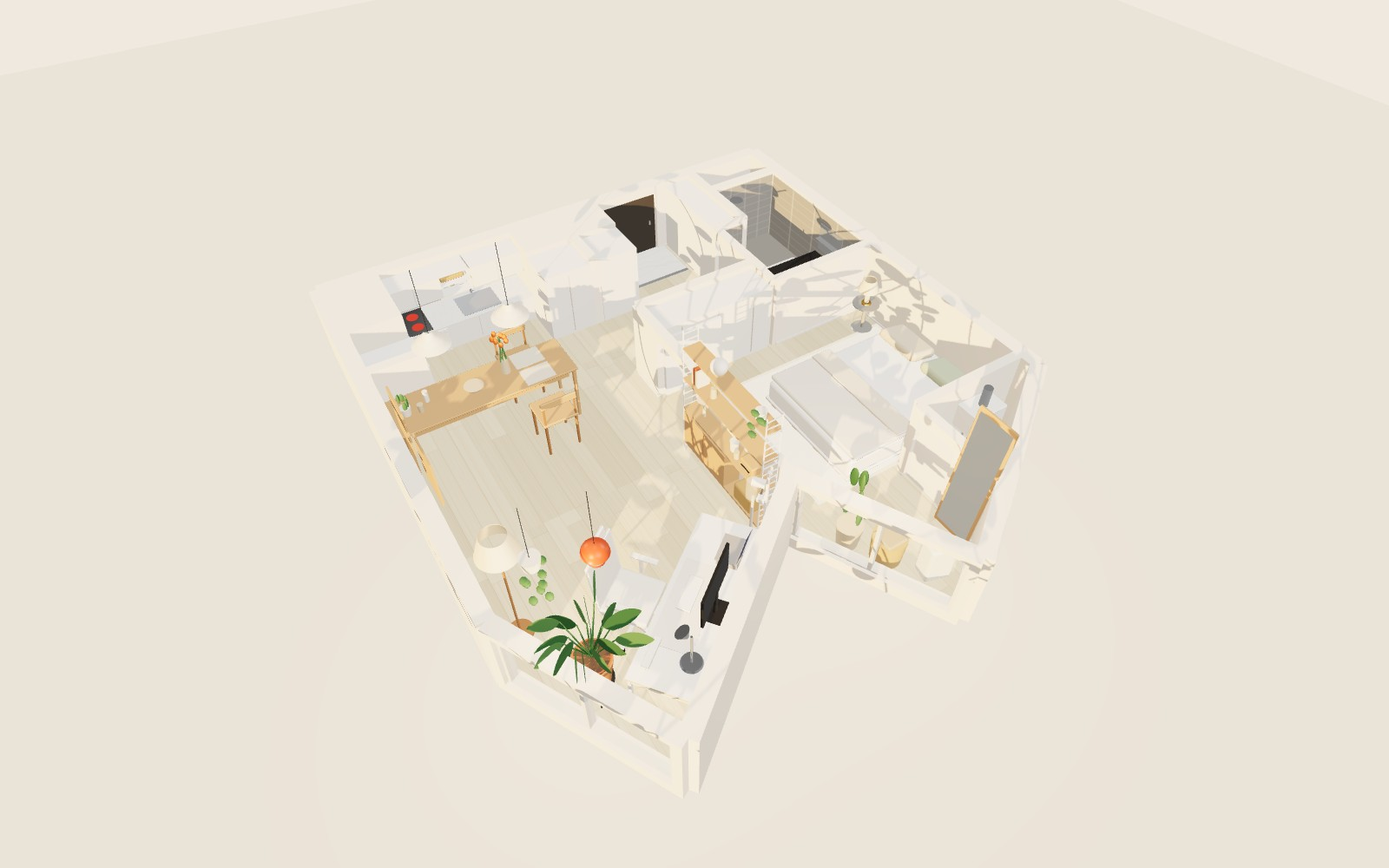
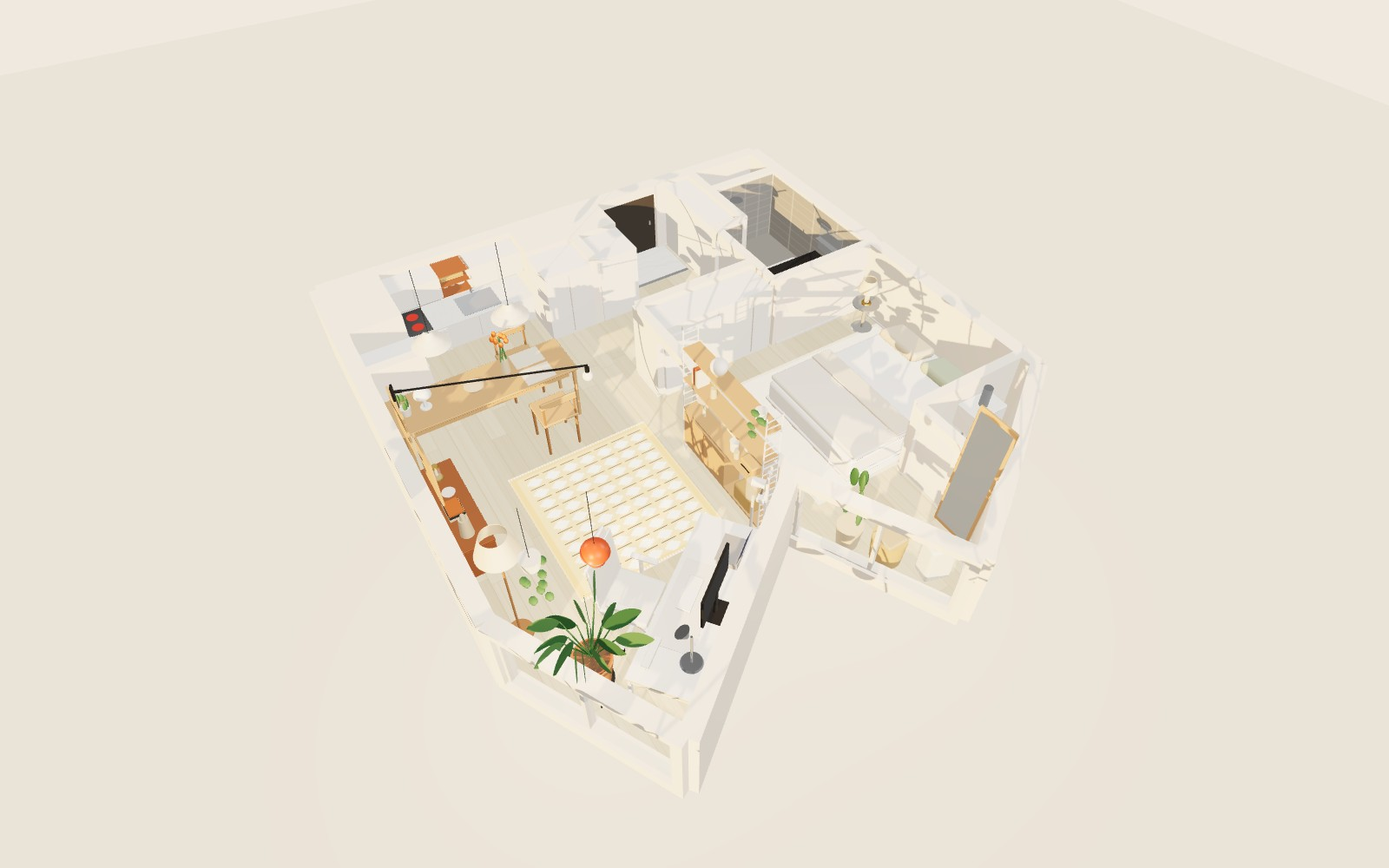
Living: teak sideboard with cane doors, swing-arm wall lamp, cordless glass lamp, mushroom lamp; rug stays when table set is hidden

diff --git a/products.html b/products.html
@@ -8,4 +8,4 @@ a.go{display:inline-block;margin-top:4px;color:#fff;background:#8a5a22;padding:3
 <header><h1>강변 스카이타워 36B · 비슷한 실제 상품 (책상 제외)</h1>
 <div><a href="./">3D로 보기</a> · <a href="gallery.html">사진으로 보기</a></div>
 <div class="note" style="margin-top:6px">각 품목: <b>가장 비슷</b>(정품·원형에 가까움) / <b>가성비</b> 대안. 링크·가격은 2026-10-26 직접 열어 확인한 기준이며 바뀔 수 있어요. 해외직배송 상품은 배송기간·관부가세를 확인하세요.</div></header>
-<main><section><h2>일본풍 방석 2개</h2><div class="sub">머스터드 방석</div><div class="it"><span class="tier best">가장 비슷</span><b>Ikeura 면 자부톤 55×59 (Yellow)</b><br>Japanese Taste (일본 직배송) · 111,000원/개 + 국제배송·관부가세<div class="note">가운데 술 매듭 있는 정통 자부톤</div><a class="go" href="https://int.japanesetaste.com/products/ikeura-cotton-zabuton-traditional-japanese-floor-cushion-55-x-59cm" target="_blank" rel="noopener">상품 보기 ↗</a></div><div class="sub">베이지 방석</div><div class="it"><span class="tier budget">가성비</span><b>데코뷰 내츄럴 베이지 린넨 빵빵이 대방석 60×60×8</b><br>29CM · 38,700원<div class="note">린넨 100%, 누름 매듭형</div><a class="go" href="https://www.29cm.co.kr/products/2535205" target="_blank" rel="noopener">상품 보기 ↗</a></div></section><section><h2>거실 러그</h2><div class="sub">러그</div><div class="it"><span class="tier best">가장 비슷</span><b>리튼 피치 그리드 러그 150×200</b><br>29CM · 339,000원 (150×200 옵션)<div class="note">크림 바탕 + 카라멜 격자, 폴리 100%</div><a class="go" href="https://www.29cm.co.kr/products/1620735" target="_blank" rel="noopener">상품 보기 ↗</a></div><div class="it"><span class="tier budget">가성비</span><b>보웰 BWTZ 워셔블 러그 체커보드(브라운) 150×200</b><br>컬리 · 96,000원<div class="note">크림+카라멜 체커보드, 세탁 가능</div><a class="go" href="https://www.kurly.com/goods/1001250208" target="_blank" rel="noopener">상품 보기 ↗</a></div></section><section><h2>좌식 타일 테이블</h2><div class="sub">좌식 테이블</div><div class="it"><span class="tier best">가장 비슷</span><b>빈티지 타일좌탁 93×52×42 (타일 포함)</b><br>11번가 (해외직배송) · 444,300원 + 배송 10,000원<div class="note">그린 타일이 사진상 진한 편 — 주문 전 타일 색 문의</div><a class="go" href="https://www.11st.co.kr/products/9003550600" target="_blank" rel="noopener">상품 보기 ↗</a></div><div class="it"><span class="tier budget">가성비</span><b>THE DIY 타일테이블 반제품 1000×500×350</b><br>THE DIY · 108,000원 (타일 별도)<div class="note">세이지 타일을 직접 골라 붙이는 DIY</div><a class="go" href="https://thediy.co.kr/goods/view?no=32298" target="_blank" rel="noopener">상품 보기 ↗</a></div></section><section><h2>스트링 선반 (깊이 20cm)</h2><div class="sub">선반</div><div class="it"><span class="tier best">가장 비슷</span><b>String® 오크 선반 78×20 3개 + 화이트 월패널 75×20 2개</b><br>루밍 (String 공식) · 426,000원 (일시품절 시 예약 3~4개월)<div class="note">월패널: rooming.co.kr/product/wall-panels-75x20-5colors/11051</div><a class="go" href="https://www.rooming.co.kr/product/shelves-oak-3pcs-4sizes/5989/category/239/display/1/" target="_blank" rel="noopener">상품 보기 ↗</a></div><div class="it"><span class="tier budget">가성비</span><b>멀티 스트링 철제 벽선반 &#x27;로그 3단 80×20&#x27;</b><br>11번가 (해외직배송) · 71,300원<div class="note">흰 사다리 + 밝은 원목 선반 (주문 전 옵션 색 확인)</div><a class="go" href="https://www.11st.co.kr/products/9505862360" target="_blank" rel="noopener">상품 보기 ↗</a></div></section><section><h2>긴 식탁 200×60</h2><div class="sub">식탁</div><div class="it"><span class="tier best">가장 비슷</span><b>해찬솔 북미산 오크 통원목 테이블 2000 (w600)</b><br>롯데ON · 1,003,200원<div class="note">통원목 오크</div><a class="go" href="https://www.lotteon.com/p/product/LO2612716380" target="_blank" rel="noopener">상품 보기 ↗</a></div><div class="it"><span class="tier budget">가성비</span><b>IKEA LAGKAPTEN 상판 200×60 + ADILS 다리 5개</b><br>이케아 · 84,900원<div class="note">다리: ikea.com/kr/ko/p/adils-leg-white-80217977 (200cm는 다리 5개)</div><a class="go" href="https://www.ikea.com/kr/ko/p/lagkapten-table-top-white-stained-oak-effect-50460834/" target="_blank" rel="noopener">상품 보기 ↗</a></div></section><section><h2>식탁 의자 2개</h2><div class="sub">의자</div><div class="it"><span class="tier best">가장 비슷</span><b>&amp;Tradition In Between Chair SK1 오크</b><br>8colors · 790,000원/개<a class="go" href="https://8colors.co.kr/product/%EC%95%A4%ED%8A%B8%EB%A0%88%EB%94%94%EC%85%98-%EC%9D%B8-%EB%B9%84%ED%8A%B8%EC%9C%88-%EC%B2%B4%EC%96%B4-in-between-chair-sk1-oak/6701/" target="_blank" rel="noopener">상품 보기 ↗</a></div><div class="it"><span class="tier budget">가성비</span><b>IKEA LISABO 리사보 의자, 물푸레나무</b><br>이케아 · 79,900원/개<a class="go" href="https://www.ikea.com/kr/ko/p/lisabo-chair-ash-80457236/" target="_blank" rel="noopener">상품 보기 ↗</a></div></section><section><h2>PH 스타일 펜던트 2개 (크림)</h2><div class="sub">펜던트</div><div class="it"><span class="tier best">가장 비슷</span><b>Louis Poulsen PH 5 Mini 모노크롬 블랙</b><br>아비타 · 1,351,000원/개<div class="note">링크는 블랙 — 3D처럼 가볍게 하려면 화이트/크림 색상 문의</div><a class="go" href="https://avita.co.kr/product/루이스폴센-ph-5-미니-펜던트-조명-모노크롬-블랙/4076/category/31/display/1/" target="_blank" rel="noopener">상품 보기 ↗</a></div><div class="it"><span class="tier budget">가성비</span><b>3단 갓 펜던트 Ø380 블랙</b><br>라이트나라 · 83,000원/개<div class="note">화이트 옵션 선택 (3D 크림 톤과 비슷)</div><a class="go" href="https://www.lightnara.com/goods/goods_view.php?goodsNo=1000001154" target="_blank" rel="noopener">상품 보기 ↗</a></div></section><section><h2>오렌지 플라워팟 펜던트</h2><div class="sub">펜던트</div><div class="it"><span class="tier best">가장 비슷</span><b>&amp;Tradition Flowerpot VP1 Zesty Orange</b><br>29CM · 387,000원<a class="go" href="https://www.29cm.co.kr/products/4282241" target="_blank" rel="noopener">상품 보기 ↗</a></div><div class="it"><span class="tier budget">가성비</span><b>&amp;Tradition Flowerpot VP10 Zesty Orange (작은 사이즈)</b><br>29CM · 259,200원<div class="note">VP1보다 7cm 작음</div><a class="go" href="https://www.29cm.co.kr/products/4096437" target="_blank" rel="noopener">상품 보기 ↗</a></div></section><section><h2>플리츠 플로어 스탠드</h2><div class="sub">스탠드</div><div class="it"><span class="tier best">가장 비슷</span><b>GUBI Timberline Floor Lamp</b><br>29CM · 1,442,100원<a class="go" href="https://www.29cm.co.kr/products/2643462" target="_blank" rel="noopener">상품 보기 ↗</a></div><div class="it"><span class="tier budget">가성비</span><b>셀리나 플리츠 우드 장스탠드 SS-6500</b><br>라이트나라 · 139,000원<div class="note">화이트 받침대만 가능</div><a class="go" href="https://www.lightnara.com/goods/goods_view.php?goodsNo=1000005455" target="_blank" rel="noopener">상품 보기 ↗</a></div></section><section><h2>구형 무드등 (선반 위)</h2><div class="sub">무드등</div><div class="it"><span class="tier best">가장 비슷</span><b>일광전구 SNOWBALL22 V2 Table (White)</b><br>29CM · 252,000원<div class="note">크롬 받침 위 타원 볼 (상위 대안)</div><a class="go" href="https://www.29cm.co.kr/products/2487432" target="_blank" rel="noopener">상품 보기 ↗</a></div><div class="it"><span class="tier budget">가성비</span><b>IKEA FADO 파도 탁상스탠드 25cm</b><br>이케아 · 24,900원<div class="note">3D에 넣은 모양과 가장 비슷</div><a class="go" href="https://www.ikea.com/kr/ko/p/fado-table-lamp-white-30283899/" target="_blank" rel="noopener">상품 보기 ↗</a></div></section><section><h2>저상 매트리스 침대 (깔판 3cm + 흰 커버)</h2><div class="sub">깔판</div><div class="it"><span class="tier best">가장 비슷</span><b>포아트 EPP 매트리스받침대 베이지 Q/K 165×200 (영상 속 제품)</b><br>포아트 공식몰 · 99,000원 (무료배송)<div class="note">높이 3cm 모듈 6장. 원목 아닌 EPP. 퀸(150)을 올리면 양옆으로 7.5cm씩 보여요</div><a class="go" href="https://foart.co.kr/product/detail.html?product_no=658" target="_blank" rel="noopener">상품 보기 ↗</a></div><div class="it"><span class="tier budget">가성비</span><b>올플로어 피너스 원목 침대 깔판 Q 150cm (내추럴)</b><br>올플로어 공식몰 · 75,100원 (무료배송)<div class="note">149.5×199.5×3cm 소나무 접이식 — 퀸에 딱 맞아 3D처럼 깔끔</div><a class="go" href="https://allfloor.co.kr/product/detail.html?product_no=29" target="_blank" rel="noopener">상품 보기 ↗</a></div><div class="sub">흰 매트리스 커버</div><div class="it"><span class="tier best">가장 비슷</span><b>바운티풀 화이트 솔리드 60수 호텔 매트리스 커버 Q</b><br>29CM · 42,900원 (5만원 미만 배송비 4,000원)<div class="note">150×200×30 밴딩형, 면 100% — 매트 높이 30cm 이하</div><a class="go" href="https://www.29cm.co.kr/products/1321945" target="_blank" rel="noopener">상품 보기 ↗</a></div><div class="it"><span class="tier budget">가성비</span><b>베베솜 6면 지퍼형 매트리스 커버 화이트 Q</b><br>오늘의집 · 44,900~45,900원 (무료배송)<div class="note">매트를 통째로 감싸 &#x27;하얀 덩어리&#x27; 느낌. 안쪽 방수층(TPU) 촉감 확인</div><a class="go" href="https://store.ohou.se/goods/1571400" target="_blank" rel="noopener">상품 보기 ↗</a></div><div class="sub">매트리스 (없을 때만)</div><div class="it"><span class="tier best">가장 비슷</span><b>시몬스 뷰티레스트 스위트 QE 퀸</b><br>시몬스 공식몰 · 1,162,800원<div class="note">150×200×24 하드형. 영상 속 시몬스 모델은 미공개라 예시</div><a class="go" href="https://www.simmons.co.kr/product-detail?productNo=127673161" target="_blank" rel="noopener">상품 보기 ↗</a></div><div class="it"><span class="tier budget">가성비</span><b>삼익가구 모노슬립 독립스프링 롤팩 매트리스 퀸</b><br>오늘의집 · 149,000원 (무료배송)<div class="note">150×200×21, 옆면 회색이라 흰 커버 필수</div><a class="go" href="https://store.ohou.se/goods/4083685" target="_blank" rel="noopener">상품 보기 ↗</a></div></section><section><h2>침실 루프 러그 200×250</h2><div class="sub">러그</div><div class="it"><span class="tier best">가장 비슷</span><b>이씨라메종 슬록 루프러그 오리지널-아이보리 200×250 맞춤 재단</b><br>이씨라메종 공식몰 · 352,000원<div class="note">영상 속 러그로 추정(제품명 미공개). 제작 2~3주, 제작 후 취소 불가</div><a class="go" href="https://icilamaison.com/product/custom-rug-order.html" target="_blank" rel="noopener">상품 보기 ↗</a></div><div class="it"><span class="tier budget">가성비</span><b>스칸디앤홈 솔리드 사이잘룩 러그 크림베이지 200×250</b><br>스칸디앤홈 공식몰 · 59,700원 (무료배송)<div class="note">물세탁 평직, 테두리 마감. 루프 직조는 아님</div><a class="go" href="https://scandinhome.co.kr/product/detail.html?product_no=5907" target="_blank" rel="noopener">상품 보기 ↗</a></div></section><section><h2>낮은 사이드테이블 · 스탠드</h2><div class="sub">사이드테이블</div><div class="it"><span class="tier best">가장 비슷</span><b>메이드인그레이 알루미늄 사이드테이블 MIG-S</b><br>29CM · 132,050원 + 배송 4,000원<div class="note">지름 35 × 높이 40 — 저상 침대 높이에 맞음</div><a class="go" href="https://www.29cm.co.kr/products/4174384" target="_blank" rel="noopener">상품 보기 ↗</a></div><div class="it"><span class="tier budget">가성비</span><b>하이오브제 스테인리스 원형 스툴 (S 높이 40cm)</b><br>오늘의집 · 26,000원 + 배송 3,000원<div class="note">지름 30 × 높이 40, 꼭 S 옵션</div><a class="go" href="https://store.ohou.se/goods/4123414" target="_blank" rel="noopener">상품 보기 ↗</a></div><div class="sub">테이블 스탠드</div><div class="it"><span class="tier best">가장 비슷</span><b>FF COLLECTIVE Antique Table Lamp Brass (베이지 갓)</b><br>에프에프컬렉티브 공식몰 · 192,000원<div class="note">브라스 + 린넨 갓, 높이 36</div><a class="go" href="https://ff-collective.com/product/antique-table-lamp-brass/950/" target="_blank" rel="noopener">상품 보기 ↗</a></div><div class="it"><span class="tier budget">가성비</span><b>빈티지 비비앙 단스탠드 베이지골드</b><br>오늘의집 · 28,500원 + 배송 3,000원<div class="note">주름 갓 + 골드 바디, 높이 35</div><a class="go" href="https://store.ohou.se/goods/406805" target="_blank" rel="noopener">상품 보기 ↗</a></div></section><section><h2>원목 전신거울</h2><div class="sub">거울</div><div class="it"><span class="tier best">가장 비슷</span><b>IKEA IKORNNES 이코르네스 전신거울 52×167, 물푸레</b><br>이케아 · 139,000원<div class="note">폭 52cm (원하던 폭보다 2cm 넓음)</div><a class="go" href="https://www.ikea.com/kr/ko/p/ikornnes-standing-mirror-ash-10298397/" target="_blank" rel="noopener">상품 보기 ↗</a></div><div class="it"><span class="tier budget">가성비</span><b>원목 회전형 전신거울 40×165 (오크)</b><br>옥션 · 120,240원<a class="go" href="http://itempage3.auction.co.kr/DetailView.aspx?itemno=E977918932" target="_blank" rel="noopener">상품 보기 ↗</a></div></section><section><h2>쉬어 리넨 커튼</h2><div class="sub">커튼</div><div class="it"><span class="tier best">가장 비슷</span><b>구다모 이태리 실키 린넨 시어 맞춤 (화이트)</b><br>구다모 · 단가 70,000원 (창 크기 입력 시 총액)<div class="note">주문제작, 봉·레일 별도</div><a class="go" href="https://gudamo.co.kr/products/copy-%EC%BB%A4%ED%8A%BC-%EA%B0%80%EB%93%B1%EB%A1%9D-4" target="_blank" rel="noopener">상품 보기 ↗</a></div><div class="it"><span class="tier budget">가성비</span><b>IKEA SILVERLÖNN 실벨뢴 속커튼 한쌍 145×250</b><br>이케아 · 29,900원/쌍<a class="go" href="https://www.ikea.com/kr/ko/p/silverloenn-sheer-curtains-1-pair-white-with-heading-tape-40491039/" target="_blank" rel="noopener">상품 보기 ↗</a></div></section><section><h2>대형 화분 · 행잉 플랜트</h2><div class="sub">대형 식물</div><div class="it"><span class="tier best">가장 비슷</span><b>호프셀렘 130~140cm (화분 포함)</b><br>심폴 · 100,000원<a class="go" href="https://www.simpol.co.kr/front/productdetail.php?productcode=003010000000068304" target="_blank" rel="noopener">상품 보기 ↗</a></div><div class="it"><span class="tier budget">가성비</span><b>호프셀렘 110~120cm</b><br>심폴 · 65,000원<div class="note">폭 30~40cm로 볼륨은 작음</div><a class="go" href="https://www.simpol.co.kr/front/productdetail.php?productcode=003011000000056613" target="_blank" rel="noopener">상품 보기 ↗</a></div><div class="sub">화분 스탠드</div><div class="it"><span class="tier best">가장 비슷</span><b>헤이핀 크라운 플랜트 스탠드 블랙 (소)</b><br>심폴 · 22,000원<div class="note">링 지름 약 26cm — 화분 크기 맞춰 구매</div><a class="go" href="https://www.simpol.co.kr/front/productdetail.php?productcode=022006000000003520" target="_blank" rel="noopener">상품 보기 ↗</a></div><div class="it"><span class="tier budget">가성비</span><b>IKEA OLIVBLAD 올리브블라드 화분스탠드 블랙 35cm</b><br>이케아 · 13,000~14,900원<div class="note">높이 35cm</div><a class="go" href="https://www.ikea.com/kr/ko/p/olivblad-plant-stand-in-outdoor-black-90486653/" target="_blank" rel="noopener">상품 보기 ↗</a></div><div class="sub">행잉 플랜트</div><div class="it"><span class="tier best">가장 비슷</span><b>스킨답서스 오레우스 행잉 1+1</b><br>심폴 · 27,900원 (2개)<a class="go" href="https://www.simpol.co.kr/front/productdetail.php?productcode=003011000000121599" target="_blank" rel="noopener">상품 보기 ↗</a></div><div class="it"><span class="tier budget">가성비</span><b>아이비 행잉 공중식물 중대품</b><br>심폴 · 15,800원<a class="go" href="https://www.simpol.co.kr/front/productdetail.php?productcode=003003000000011632" target="_blank" rel="noopener">상품 보기 ↗</a></div></section><section><h2>라탄 바스켓</h2><div class="sub">바스켓</div><div class="it"><span class="tier best">가장 비슷</span><b>파스텔 라탄 원형 빨래바구니</b><br>헵번샵 · 95,000원<a class="go" href="http://www.hepburnshop.com/shop/shopdetail.html?branduid=128752" target="_blank" rel="noopener">상품 보기 ↗</a></div><div class="it"><span class="tier budget">가성비</span><b>IKEA BRANÄS 브라네스 라탄 바구니 32×34×32</b><br>이케아 · 24,900원<div class="note">사각형</div><a class="go" href="https://www.ikea.com/kr/ko/p/branaes-basket-rattan-80173153/" target="_blank" rel="noopener">상품 보기 ↗</a></div></section><section><h2>액자 2점</h2><div class="sub">그린 포스터</div><div class="it"><span class="tier best">가장 비슷</span><b>Desenio Abstract Green Shapes No1 40×50</b><br>데세니오 · 약 32,900원 (할인가, 10/26까지)<a class="go" href="https://desenio.kr/p/posters-prints/art-prints/abstract-art/abstract-green-shapes-no1-print/" target="_blank" rel="noopener">상품 보기 ↗</a></div><div class="sub">오렌지 포스터</div><div class="it"><span class="tier best">가장 비슷</span><b>Desenio Bauhaus Circles 30×40</b><br>데세니오 · 약 24,700원 (할인가, 10/26까지)<a class="go" href="https://desenio.kr/p/posters-prints/famous-painters/bauhaus/bauhaus-circles-print/" target="_blank" rel="noopener">상품 보기 ↗</a></div><div class="sub">액자</div><div class="it"><span class="tier best">가장 비슷</span><b>Desenio 오크 원목 액자 40×50</b><br>데세니오 · 약 76,100원<a class="go" href="https://desenio.kr/p/frames/wood-frames/oak-picture-frames/40x50/" target="_blank" rel="noopener">상품 보기 ↗</a></div><div class="it"><span class="tier budget">가성비</span><b>IKEA RÖDALM 뢰달름 액자 40×50 참나무무늬</b><br>이케아 · 19,900원/개<a class="go" href="https://www.ikea.com/kr/ko/p/roedalm-frame-oak-effect-20566399/" target="_blank" rel="noopener">상품 보기 ↗</a></div></section><section><h2>무선청소기 + 슬림 스탠드</h2><div class="sub">청소기 스탠드</div><div class="it"><span class="tier best">가장 비슷</span><b>스토움 라르고 무선청소기 스탠드 거치대 (화이트)</b><br>오늘의집 (다나와 가격비교) · 25,800원<div class="note">받침 22×29, 높이 127. 청소기 정품 벽걸이 브래킷을 끼우는 방식 — 다이슨 V12는 안 맞고, 비스포크 제트는 미확인</div><a class="go" href="https://prod.danawa.com/info/?pcode=20645123" target="_blank" rel="noopener">상품 보기 ↗</a></div><div class="it"><span class="tier budget">가성비</span><b>라슈에뜨 무선청소기 철제 슬림 거치대 (화이트 S/L)</b><br>오늘의집 · 11,900~13,900원 + 배송 3,000원<div class="note">헤드를 올리고 파이프를 기대는 방식(브래킷 불필요). 파이프 굵기 4.5cm 이하만</div><a class="go" href="https://store.ohou.se/goods/2449315" target="_blank" rel="noopener">상품 보기 ↗</a></div><div class="sub">청소기 (스탠드 포함)</div><div class="it"><span class="tier budget">가성비</span><b>캐치웰 에이센스 VC234 자동충전 거치대 무선청소기</b><br>11번가 · 139,000원<div class="note">아직 청소기가 없다면: 충전 스탠드가 같이 와서 거치대가 따로 필요 없음</div><a class="go" href="https://www.11st.co.kr/products/7093303724" target="_blank" rel="noopener">상품 보기 ↗</a></div></section><section><h2>소형 제습기 (빨래 건조 겸용)</h2><div class="sub">제습기</div><div class="it"><span class="tier best">가장 비슷</span><b>신일 패브릭 제습기 SDH-S530IF (하루 12L)</b><br>11번가 · 287,000원<div class="note">30.5×23.5×49.5, 35dB, 물통 4.5L — 밤새 빨래 말려도 물통이 넉넉</div><a class="go" href="https://www.11st.co.kr/products/8359249228" target="_blank" rel="noopener">상품 보기 ↗</a></div><div class="it"><span class="tier best">가장 비슷</span><b>대성쎌틱 케어온1 DSD-6210W (하루 10L, 1등급)</b><br>11번가 · 198,370원<div class="note">29×24×51.5, 35dB, 물통 3L, 전기료 유리</div><a class="go" href="https://www.11st.co.kr/products/9292967717" target="_blank" rel="noopener">상품 보기 ↗</a></div><div class="it"><span class="tier budget">가성비</span><b>캐리어 12L 제습기 CDHC-120AUNWOXH</b><br>11번가 · 179,550원<div class="note">30.5×23.4×49.5, 의류건조 모드. 손바닥만 한 미니(펠티어) 제습기는 빨래용으로 약해요</div><a class="go" href="https://www.11st.co.kr/products/8439801880" target="_blank" rel="noopener">상품 보기 ↗</a></div></section><section><h2>접이식 빨래 건조대</h2><div class="sub">건조대</div><div class="it"><span class="tier best">가장 비슷</span><b>브라반티아 행온 빨래건조대 15m (메탈릭그레이)</b><br>11번가 (롯데백화점) · 103,470원<div class="note">펼침 108×59, 접으면 두께 5cm — 책상 밑에 세워 보관</div><a class="go" href="https://www.11st.co.kr/products/9701896136" target="_blank" rel="noopener">상품 보기 ↗</a></div><div class="it"><span class="tier budget">가성비</span><b>한샘 올데이 미니 건조대 (화이트)</b><br>11번가 · 29,900원<div class="note">펼침 136×52, 접으면 두께 7cm</div><a class="go" href="https://www.11st.co.kr/products/5580385185" target="_blank" rel="noopener">상품 보기 ↗</a></div><div class="sub">보조 건조대</div><div class="it"><span class="tier budget">가성비</span><b>IKEA JÄLL 옐 실내외건조대 (화이트)</b><br>이케아 · 10,000원<div class="note">수건·속옷용 작은 보조</div><a class="go" href="https://www.ikea.com/kr/ko/p/jaell-drying-rack-in-outdoor-white-00242891/" target="_blank" rel="noopener">상품 보기 ↗</a></div></section><section><h2>무선 서큘레이터 (빨래용)</h2><div class="sub">서큘레이터</div><div class="it"><span class="tier best">가장 비슷</span><b>루메나 무선 써큘레이터 FAN PRIME 3 (퓨어화이트)</b><br>루메나 공식몰 · 59,900원<div class="note">20×16×35, 무선 — 건조대 끝에서 제습기 쪽으로 바람</div><a class="go" href="https://www.lumena.co.kr/product/detail.html?product_no=355" target="_blank" rel="noopener">상품 보기 ↗</a></div></section></main></body></html>
+<main><section><h2>일본풍 방석 2개</h2><div class="sub">머스터드 방석</div><div class="it"><span class="tier best">가장 비슷</span><b>Ikeura 면 자부톤 55×59 (Yellow)</b><br>Japanese Taste (일본 직배송) · 111,000원/개 + 국제배송·관부가세<div class="note">가운데 술 매듭 있는 정통 자부톤</div><a class="go" href="https://int.japanesetaste.com/products/ikeura-cotton-zabuton-traditional-japanese-floor-cushion-55-x-59cm" target="_blank" rel="noopener">상품 보기 ↗</a></div><div class="sub">베이지 방석</div><div class="it"><span class="tier budget">가성비</span><b>데코뷰 내츄럴 베이지 린넨 빵빵이 대방석 60×60×8</b><br>29CM · 38,700원<div class="note">린넨 100%, 누름 매듭형</div><a class="go" href="https://www.29cm.co.kr/products/2535205" target="_blank" rel="noopener">상품 보기 ↗</a></div></section><section><h2>거실 러그</h2><div class="sub">러그</div><div class="it"><span class="tier best">가장 비슷</span><b>리튼 피치 그리드 러그 150×200</b><br>29CM · 339,000원 (150×200 옵션)<div class="note">크림 바탕 + 카라멜 격자, 폴리 100%</div><a class="go" href="https://www.29cm.co.kr/products/1620735" target="_blank" rel="noopener">상품 보기 ↗</a></div><div class="it"><span class="tier budget">가성비</span><b>보웰 BWTZ 워셔블 러그 체커보드(브라운) 150×200</b><br>컬리 · 96,000원<div class="note">크림+카라멜 체커보드, 세탁 가능</div><a class="go" href="https://www.kurly.com/goods/1001250208" target="_blank" rel="noopener">상품 보기 ↗</a></div></section><section><h2>좌식 타일 테이블</h2><div class="sub">좌식 테이블</div><div class="it"><span class="tier best">가장 비슷</span><b>빈티지 타일좌탁 93×52×42 (타일 포함)</b><br>11번가 (해외직배송) · 444,300원 + 배송 10,000원<div class="note">그린 타일이 사진상 진한 편 — 주문 전 타일 색 문의</div><a class="go" href="https://www.11st.co.kr/products/9003550600" target="_blank" rel="noopener">상품 보기 ↗</a></div><div class="it"><span class="tier budget">가성비</span><b>THE DIY 타일테이블 반제품 1000×500×350</b><br>THE DIY · 108,000원 (타일 별도)<div class="note">세이지 타일을 직접 골라 붙이는 DIY</div><a class="go" href="https://thediy.co.kr/goods/view?no=32298" target="_blank" rel="noopener">상품 보기 ↗</a></div></section><section><h2>스트링 선반 (깊이 20cm)</h2><div class="sub">선반</div><div class="it"><span class="tier best">가장 비슷</span><b>String® 오크 선반 78×20 3개 + 화이트 월패널 75×20 2개</b><br>루밍 (String 공식) · 426,000원 (일시품절 시 예약 3~4개월)<div class="note">월패널: rooming.co.kr/product/wall-panels-75x20-5colors/11051</div><a class="go" href="https://www.rooming.co.kr/product/shelves-oak-3pcs-4sizes/5989/category/239/display/1/" target="_blank" rel="noopener">상품 보기 ↗</a></div><div class="it"><span class="tier budget">가성비</span><b>멀티 스트링 철제 벽선반 &#x27;로그 3단 80×20&#x27;</b><br>11번가 (해외직배송) · 71,300원<div class="note">흰 사다리 + 밝은 원목 선반 (주문 전 옵션 색 확인)</div><a class="go" href="https://www.11st.co.kr/products/9505862360" target="_blank" rel="noopener">상품 보기 ↗</a></div></section><section><h2>낮은 티크톤 사이드보드 (라탄 문)</h2><div class="sub">사이드보드</div><div class="it"><span class="tier best">가장 비슷</span><b>어반레스트 라탄 플랩도어 1100 거실장 (네추럴)</b><br>오늘의집 · 165,000원 + 착불 배송 20,000원<div class="note">W110×D39×H58, 티크톤 몸통 + 밝은 라탄 문 — 레퍼런스와 가장 비슷 (인조라탄, 직접 조립)</div><a class="go" href="https://store.ohou.se/goods/1299455" target="_blank" rel="noopener">상품 보기 ↗</a></div><div class="it"><span class="tier best">가장 비슷</span><b>장미맨숀 리브 원목 거실장 01 1200 (내추럴)</b><br>장미맨숀 공식몰 · 268,000원 + 착불 배송 30,000원<div class="note">W120×D40×H55 고무나무 원목, 테이퍼 다리, 문도 원목(라탄 없음)</div><a class="go" href="https://rosamansion.com/product/detail.html?product_no=1288" target="_blank" rel="noopener">상품 보기 ↗</a></div></section><section><h2>롱암 스윙 벽등 (포텐스 스타일)</h2><div class="sub">벽등</div><div class="it"><span class="tier best">가장 비슷</span><b>Vitra Potence (Jean Prouvé) 딥블랙</b><br>루밍 공식몰 · 2,490,000원 (10/31까지 2,365,500원)<div class="note">팔 길이 2m, 플러그+줄 디머(배선공사 X), 벽 고정 나사 필요 — 지금 주문 시 27년 6월 입고</div><a class="go" href="https://rooming.co.kr/product/detail.html?product_no=17523" target="_blank" rel="noopener">상품 보기 ↗</a></div><div class="it"><span class="tier budget">가성비</span><b>포텐스 스타일 북유럽 벽조명 (노출 전선 110cm, 전구 포함)</b><br>11번가 (구매대행) · 150,530원<div class="note">3D는 160cm로 표현. KC·플러그 규격 미표기라 구매 전 판매자 문의</div><a class="go" href="https://www.11st.co.kr/products/9160256398" target="_blank" rel="noopener">상품 보기 ↗</a></div></section><section><h2>무선 유리 램프 (충전식)</h2><div class="sub">무선 램프</div><div class="it"><span class="tier best">가장 비슷</span><b>Ambientec BOTTLED Matte Silver</b><br>29CM · 790,000원<div class="note">유리+알루미늄 W10×H25, 최대 약 100시간</div><a class="go" href="https://www.29cm.co.kr/products/2346464" target="_blank" rel="noopener">상품 보기 ↗</a></div><div class="it"><span class="tier budget">가성비</span><b>Barebones 레일로드 랜턴 (빈티지 화이트)</b><br>무신사 · 105,000원<div class="note">유리 글로브 3000K, USB-C 충전 — 살짝 캠핑풍</div><a class="go" href="https://www.musinsa.com/products/3237801" target="_blank" rel="noopener">상품 보기 ↗</a></div></section><section><h2>긴 식탁 200×60</h2><div class="sub">식탁</div><div class="it"><span class="tier best">가장 비슷</span><b>해찬솔 북미산 오크 통원목 테이블 2000 (w600)</b><br>롯데ON · 1,003,200원<div class="note">통원목 오크</div><a class="go" href="https://www.lotteon.com/p/product/LO2612716380" target="_blank" rel="noopener">상품 보기 ↗</a></div><div class="it"><span class="tier budget">가성비</span><b>IKEA LAGKAPTEN 상판 200×60 + ADILS 다리 5개</b><br>이케아 · 84,900원<div class="note">다리: ikea.com/kr/ko/p/adils-leg-white-80217977 (200cm는 다리 5개)</div><a class="go" href="https://www.ikea.com/kr/ko/p/lagkapten-table-top-white-stained-oak-effect-50460834/" target="_blank" rel="noopener">상품 보기 ↗</a></div></section><section><h2>식탁 의자 2개</h2><div class="sub">의자</div><div class="it"><span class="tier best">가장 비슷</span><b>&amp;Tradition In Between Chair SK1 오크</b><br>8colors · 790,000원/개<a class="go" href="https://8colors.co.kr/product/%EC%95%A4%ED%8A%B8%EB%A0%88%EB%94%94%EC%85%98-%EC%9D%B8-%EB%B9%84%ED%8A%B8%EC%9C%88-%EC%B2%B4%EC%96%B4-in-between-chair-sk1-oak/6701/" target="_blank" rel="noopener">상품 보기 ↗</a></div><div class="it"><span class="tier budget">가성비</span><b>IKEA LISABO 리사보 의자, 물푸레나무</b><br>이케아 · 79,900원/개<a class="go" href="https://www.ikea.com/kr/ko/p/lisabo-chair-ash-80457236/" target="_blank" rel="noopener">상품 보기 ↗</a></div></section><section><h2>PH 스타일 펜던트 2개 (크림)</h2><div class="sub">펜던트</div><div class="it"><span class="tier best">가장 비슷</span><b>Louis Poulsen PH 5 Mini 모노크롬 블랙</b><br>아비타 · 1,351,000원/개<div class="note">링크는 블랙 — 3D처럼 가볍게 하려면 화이트/크림 색상 문의</div><a class="go" href="https://avita.co.kr/product/루이스폴센-ph-5-미니-펜던트-조명-모노크롬-블랙/4076/category/31/display/1/" target="_blank" rel="noopener">상품 보기 ↗</a></div><div class="it"><span class="tier budget">가성비</span><b>3단 갓 펜던트 Ø380 블랙</b><br>라이트나라 · 83,000원/개<div class="note">화이트 옵션 선택 (3D 크림 톤과 비슷)</div><a class="go" href="https://www.lightnara.com/goods/goods_view.php?goodsNo=1000001154" target="_blank" rel="noopener">상품 보기 ↗</a></div></section><section><h2>화이트 버섯 무드등 (식탁)</h2><div class="sub">무드등</div><div class="it"><span class="tier best">가장 비슷</span><b>Louis Poulsen Panthella 160 Portable V3 오팔 화이트</b><br>29CM · 370,000원 (무료배송)<div class="note">Ø16×H24, USB-C 충전</div><a class="go" href="https://www.29cm.co.kr/products/4103068" target="_blank" rel="noopener">상품 보기 ↗</a></div><div class="it"><span class="tier budget">가성비</span><b>필립스 Mysena 머쉬룸 충전식 테이블램프 (화이트)</b><br>29CM · 42,000원<div class="note">15×20.5, 갓이 조금 납작함</div><a class="go" href="https://www.29cm.co.kr/products/4068734" target="_blank" rel="noopener">상품 보기 ↗</a></div></section><section><h2>오렌지 플라워팟 펜던트</h2><div class="sub">펜던트</div><div class="it"><span class="tier best">가장 비슷</span><b>&amp;Tradition Flowerpot VP1 Zesty Orange</b><br>29CM · 387,000원<a class="go" href="https://www.29cm.co.kr/products/4282241" target="_blank" rel="noopener">상품 보기 ↗</a></div><div class="it"><span class="tier budget">가성비</span><b>&amp;Tradition Flowerpot VP10 Zesty Orange (작은 사이즈)</b><br>29CM · 259,200원<div class="note">VP1보다 7cm 작음</div><a class="go" href="https://www.29cm.co.kr/products/4096437" target="_blank" rel="noopener">상품 보기 ↗</a></div></section><section><h2>플리츠 플로어 스탠드</h2><div class="sub">스탠드</div><div class="it"><span class="tier best">가장 비슷</span><b>GUBI Timberline Floor Lamp</b><br>29CM · 1,442,100원<a class="go" href="https://www.29cm.co.kr/products/2643462" target="_blank" rel="noopener">상품 보기 ↗</a></div><div class="it"><span class="tier budget">가성비</span><b>셀리나 플리츠 우드 장스탠드 SS-6500</b><br>라이트나라 · 139,000원<div class="note">화이트 받침대만 가능</div><a class="go" href="https://www.lightnara.com/goods/goods_view.php?goodsNo=1000005455" target="_blank" rel="noopener">상품 보기 ↗</a></div></section><section><h2>구형 무드등 (선반 위)</h2><div class="sub">무드등</div><div class="it"><span class="tier best">가장 비슷</span><b>일광전구 SNOWBALL22 V2 Table (White)</b><br>29CM · 252,000원<div class="note">크롬 받침 위 타원 볼 (상위 대안)</div><a class="go" href="https://www.29cm.co.kr/products/2487432" target="_blank" rel="noopener">상품 보기 ↗</a></div><div class="it"><span class="tier budget">가성비</span><b>IKEA FADO 파도 탁상스탠드 25cm</b><br>이케아 · 24,900원<div class="note">3D에 넣은 모양과 가장 비슷</div><a class="go" href="https://www.ikea.com/kr/ko/p/fado-table-lamp-white-30283899/" target="_blank" rel="noopener">상품 보기 ↗</a></div></section><section><h2>저상 매트리스 침대 (깔판 3cm + 흰 커버)</h2><div class="sub">깔판</div><div class="it"><span class="tier best">가장 비슷</span><b>포아트 EPP 매트리스받침대 베이지 Q/K 165×200 (영상 속 제품)</b><br>포아트 공식몰 · 99,000원 (무료배송)<div class="note">높이 3cm 모듈 6장. 원목 아닌 EPP. 퀸(150)을 올리면 양옆으로 7.5cm씩 보여요</div><a class="go" href="https://foart.co.kr/product/detail.html?product_no=658" target="_blank" rel="noopener">상품 보기 ↗</a></div><div class="it"><span class="tier budget">가성비</span><b>올플로어 피너스 원목 침대 깔판 Q 150cm (내추럴)</b><br>올플로어 공식몰 · 75,100원 (무료배송)<div class="note">149.5×199.5×3cm 소나무 접이식 — 퀸에 딱 맞아 3D처럼 깔끔</div><a class="go" href="https://allfloor.co.kr/product/detail.html?product_no=29" target="_blank" rel="noopener">상품 보기 ↗</a></div><div class="sub">흰 매트리스 커버</div><div class="it"><span class="tier best">가장 비슷</span><b>바운티풀 화이트 솔리드 60수 호텔 매트리스 커버 Q</b><br>29CM · 42,900원 (5만원 미만 배송비 4,000원)<div class="note">150×200×30 밴딩형, 면 100% — 매트 높이 30cm 이하</div><a class="go" href="https://www.29cm.co.kr/products/1321945" target="_blank" rel="noopener">상품 보기 ↗</a></div><div class="it"><span class="tier budget">가성비</span><b>베베솜 6면 지퍼형 매트리스 커버 화이트 Q</b><br>오늘의집 · 44,900~45,900원 (무료배송)<div class="note">매트를 통째로 감싸 &#x27;하얀 덩어리&#x27; 느낌. 안쪽 방수층(TPU) 촉감 확인</div><a class="go" href="https://store.ohou.se/goods/1571400" target="_blank" rel="noopener">상품 보기 ↗</a></div><div class="sub">매트리스 (없을 때만)</div><div class="it"><span class="tier best">가장 비슷</span><b>시몬스 뷰티레스트 스위트 QE 퀸</b><br>시몬스 공식몰 · 1,162,800원<div class="note">150×200×24 하드형. 영상 속 시몬스 모델은 미공개라 예시</div><a class="go" href="https://www.simmons.co.kr/product-detail?productNo=127673161" target="_blank" rel="noopener">상품 보기 ↗</a></div><div class="it"><span class="tier budget">가성비</span><b>삼익가구 모노슬립 독립스프링 롤팩 매트리스 퀸</b><br>오늘의집 · 149,000원 (무료배송)<div class="note">150×200×21, 옆면 회색이라 흰 커버 필수</div><a class="go" href="https://store.ohou.se/goods/4083685" target="_blank" rel="noopener">상품 보기 ↗</a></div></section><section><h2>침실 루프 러그 200×250</h2><div class="sub">러그</div><div class="it"><span class="tier best">가장 비슷</span><b>이씨라메종 슬록 루프러그 오리지널-아이보리 200×250 맞춤 재단</b><br>이씨라메종 공식몰 · 352,000원<div class="note">영상 속 러그로 추정(제품명 미공개). 제작 2~3주, 제작 후 취소 불가</div><a class="go" href="https://icilamaison.com/product/custom-rug-order.html" target="_blank" rel="noopener">상품 보기 ↗</a></div><div class="it"><span class="tier budget">가성비</span><b>스칸디앤홈 솔리드 사이잘룩 러그 크림베이지 200×250</b><br>스칸디앤홈 공식몰 · 59,700원 (무료배송)<div class="note">물세탁 평직, 테두리 마감. 루프 직조는 아님</div><a class="go" href="https://scandinhome.co.kr/product/detail.html?product_no=5907" target="_blank" rel="noopener">상품 보기 ↗</a></div></section><section><h2>낮은 사이드테이블 · 스탠드</h2><div class="sub">사이드테이블</div><div class="it"><span class="tier best">가장 비슷</span><b>메이드인그레이 알루미늄 사이드테이블 MIG-S</b><br>29CM · 132,050원 + 배송 4,000원<div class="note">지름 35 × 높이 40 — 저상 침대 높이에 맞음</div><a class="go" href="https://www.29cm.co.kr/products/4174384" target="_blank" rel="noopener">상품 보기 ↗</a></div><div class="it"><span class="tier budget">가성비</span><b>하이오브제 스테인리스 원형 스툴 (S 높이 40cm)</b><br>오늘의집 · 26,000원 + 배송 3,000원<div class="note">지름 30 × 높이 40, 꼭 S 옵션</div><a class="go" href="https://store.ohou.se/goods/4123414" target="_blank" rel="noopener">상품 보기 ↗</a></div><div class="sub">테이블 스탠드</div><div class="it"><span class="tier best">가장 비슷</span><b>FF COLLECTIVE Antique Table Lamp Brass (베이지 갓)</b><br>에프에프컬렉티브 공식몰 · 192,000원<div class="note">브라스 + 린넨 갓, 높이 36</div><a class="go" href="https://ff-collective.com/product/antique-table-lamp-brass/950/" target="_blank" rel="noopener">상품 보기 ↗</a></div><div class="it"><span class="tier budget">가성비</span><b>빈티지 비비앙 단스탠드 베이지골드</b><br>오늘의집 · 28,500원 + 배송 3,000원<div class="note">주름 갓 + 골드 바디, 높이 35</div><a class="go" href="https://store.ohou.se/goods/406805" target="_blank" rel="noopener">상품 보기 ↗</a></div></section><section><h2>원목 전신거울</h2><div class="sub">거울</div><div class="it"><span class="tier best">가장 비슷</span><b>IKEA IKORNNES 이코르네스 전신거울 52×167, 물푸레</b><br>이케아 · 139,000원<div class="note">폭 52cm (원하던 폭보다 2cm 넓음)</div><a class="go" href="https://www.ikea.com/kr/ko/p/ikornnes-standing-mirror-ash-10298397/" target="_blank" rel="noopener">상품 보기 ↗</a></div><div class="it"><span class="tier budget">가성비</span><b>원목 회전형 전신거울 40×165 (오크)</b><br>옥션 · 120,240원<a class="go" href="http://itempage3.auction.co.kr/DetailView.aspx?itemno=E977918932" target="_blank" rel="noopener">상품 보기 ↗</a></div></section><section><h2>쉬어 리넨 커튼</h2><div class="sub">커튼</div><div class="it"><span class="tier best">가장 비슷</span><b>구다모 이태리 실키 린넨 시어 맞춤 (화이트)</b><br>구다모 · 단가 70,000원 (창 크기 입력 시 총액)<div class="note">주문제작, 봉·레일 별도</div><a class="go" href="https://gudamo.co.kr/products/copy-%EC%BB%A4%ED%8A%BC-%EA%B0%80%EB%93%B1%EB%A1%9D-4" target="_blank" rel="noopener">상품 보기 ↗</a></div><div class="it"><span class="tier budget">가성비</span><b>IKEA SILVERLÖNN 실벨뢴 속커튼 한쌍 145×250</b><br>이케아 · 29,900원/쌍<a class="go" href="https://www.ikea.com/kr/ko/p/silverloenn-sheer-curtains-1-pair-white-with-heading-tape-40491039/" target="_blank" rel="noopener">상품 보기 ↗</a></div></section><section><h2>대형 화분 · 행잉 플랜트</h2><div class="sub">대형 식물</div><div class="it"><span class="tier best">가장 비슷</span><b>호프셀렘 130~140cm (화분 포함)</b><br>심폴 · 100,000원<a class="go" href="https://www.simpol.co.kr/front/productdetail.php?productcode=003010000000068304" target="_blank" rel="noopener">상품 보기 ↗</a></div><div class="it"><span class="tier budget">가성비</span><b>호프셀렘 110~120cm</b><br>심폴 · 65,000원<div class="note">폭 30~40cm로 볼륨은 작음</div><a class="go" href="https://www.simpol.co.kr/front/productdetail.php?productcode=003011000000056613" target="_blank" rel="noopener">상품 보기 ↗</a></div><div class="sub">화분 스탠드</div><div class="it"><span class="tier best">가장 비슷</span><b>헤이핀 크라운 플랜트 스탠드 블랙 (소)</b><br>심폴 · 22,000원<div class="note">링 지름 약 26cm — 화분 크기 맞춰 구매</div><a class="go" href="https://www.simpol.co.kr/front/productdetail.php?productcode=022006000000003520" target="_blank" rel="noopener">상품 보기 ↗</a></div><div class="it"><span class="tier budget">가성비</span><b>IKEA OLIVBLAD 올리브블라드 화분스탠드 블랙 35cm</b><br>이케아 · 13,000~14,900원<div class="note">높이 35cm</div><a class="go" href="https://www.ikea.com/kr/ko/p/olivblad-plant-stand-in-outdoor-black-90486653/" target="_blank" rel="noopener">상품 보기 ↗</a></div><div class="sub">행잉 플랜트</div><div class="it"><span class="tier best">가장 비슷</span><b>스킨답서스 오레우스 행잉 1+1</b><br>심폴 · 27,900원 (2개)<a class="go" href="https://www.simpol.co.kr/front/productdetail.php?productcode=003011000000121599" target="_blank" rel="noopener">상품 보기 ↗</a></div><div class="it"><span class="tier budget">가성비</span><b>아이비 행잉 공중식물 중대품</b><br>심폴 · 15,800원<a class="go" href="https://www.simpol.co.kr/front/productdetail.php?productcode=003003000000011632" target="_blank" rel="noopener">상품 보기 ↗</a></div></section><section><h2>라탄 바스켓</h2><div class="sub">바스켓</div><div class="it"><span class="tier best">가장 비슷</span><b>파스텔 라탄 원형 빨래바구니</b><br>헵번샵 · 95,000원<a class="go" href="http://www.hepburnshop.com/shop/shopdetail.html?branduid=128752" target="_blank" rel="noopener">상품 보기 ↗</a></div><div class="it"><span class="tier budget">가성비</span><b>IKEA BRANÄS 브라네스 라탄 바구니 32×34×32</b><br>이케아 · 24,900원<div class="note">사각형</div><a class="go" href="https://www.ikea.com/kr/ko/p/branaes-basket-rattan-80173153/" target="_blank" rel="noopener">상품 보기 ↗</a></div></section><section><h2>액자 2점</h2><div class="sub">그린 포스터</div><div class="it"><span class="tier best">가장 비슷</span><b>Desenio Abstract Green Shapes No1 40×50</b><br>데세니오 · 약 32,900원 (할인가, 10/26까지)<a class="go" href="https://desenio.kr/p/posters-prints/art-prints/abstract-art/abstract-green-shapes-no1-print/" target="_blank" rel="noopener">상품 보기 ↗</a></div><div class="sub">오렌지 포스터</div><div class="it"><span class="tier best">가장 비슷</span><b>Desenio Bauhaus Circles 30×40</b><br>데세니오 · 약 24,700원 (할인가, 10/26까지)<a class="go" href="https://desenio.kr/p/posters-prints/famous-painters/bauhaus/bauhaus-circles-print/" target="_blank" rel="noopener">상품 보기 ↗</a></div><div class="sub">액자</div><div class="it"><span class="tier best">가장 비슷</span><b>Desenio 오크 원목 액자 40×50</b><br>데세니오 · 약 76,100원<a class="go" href="https://desenio.kr/p/frames/wood-frames/oak-picture-frames/40x50/" target="_blank" rel="noopener">상품 보기 ↗</a></div><div class="it"><span class="tier budget">가성비</span><b>IKEA RÖDALM 뢰달름 액자 40×50 참나무무늬</b><br>이케아 · 19,900원/개<a class="go" href="https://www.ikea.com/kr/ko/p/roedalm-frame-oak-effect-20566399/" target="_blank" rel="noopener">상품 보기 ↗</a></div></section><section><h2>무선청소기 + 슬림 스탠드</h2><div class="sub">청소기 스탠드</div><div class="it"><span class="tier best">가장 비슷</span><b>스토움 라르고 무선청소기 스탠드 거치대 (화이트)</b><br>오늘의집 (다나와 가격비교) · 25,800원<div class="note">받침 22×29, 높이 127. 청소기 정품 벽걸이 브래킷을 끼우는 방식 — 다이슨 V12는 안 맞고, 비스포크 제트는 미확인</div><a class="go" href="https://prod.danawa.com/info/?pcode=20645123" target="_blank" rel="noopener">상품 보기 ↗</a></div><div class="it"><span class="tier budget">가성비</span><b>라슈에뜨 무선청소기 철제 슬림 거치대 (화이트 S/L)</b><br>오늘의집 · 11,900~13,900원 + 배송 3,000원<div class="note">헤드를 올리고 파이프를 기대는 방식(브래킷 불필요). 파이프 굵기 4.5cm 이하만</div><a class="go" href="https://store.ohou.se/goods/2449315" target="_blank" rel="noopener">상품 보기 ↗</a></div><div class="sub">청소기 (스탠드 포함)</div><div class="it"><span class="tier budget">가성비</span><b>캐치웰 에이센스 VC234 자동충전 거치대 무선청소기</b><br>11번가 · 139,000원<div class="note">아직 청소기가 없다면: 충전 스탠드가 같이 와서 거치대가 따로 필요 없음</div><a class="go" href="https://www.11st.co.kr/products/7093303724" target="_blank" rel="noopener">상품 보기 ↗</a></div></section><section><h2>소형 제습기 (빨래 건조 겸용)</h2><div class="sub">제습기</div><div class="it"><span class="tier best">가장 비슷</span><b>신일 패브릭 제습기 SDH-S530IF (하루 12L)</b><br>11번가 · 287,000원<div class="note">30.5×23.5×49.5, 35dB, 물통 4.5L — 밤새 빨래 말려도 물통이 넉넉</div><a class="go" href="https://www.11st.co.kr/products/8359249228" target="_blank" rel="noopener">상품 보기 ↗</a></div><div class="it"><span class="tier best">가장 비슷</span><b>대성쎌틱 케어온1 DSD-6210W (하루 10L, 1등급)</b><br>11번가 · 198,370원<div class="note">29×24×51.5, 35dB, 물통 3L, 전기료 유리</div><a class="go" href="https://www.11st.co.kr/products/9292967717" target="_blank" rel="noopener">상품 보기 ↗</a></div><div class="it"><span class="tier budget">가성비</span><b>캐리어 12L 제습기 CDHC-120AUNWOXH</b><br>11번가 · 179,550원<div class="note">30.5×23.4×49.5, 의류건조 모드. 손바닥만 한 미니(펠티어) 제습기는 빨래용으로 약해요</div><a class="go" href="https://www.11st.co.kr/products/8439801880" target="_blank" rel="noopener">상품 보기 ↗</a></div></section><section><h2>접이식 빨래 건조대</h2><div class="sub">건조대</div><div class="it"><span class="tier best">가장 비슷</span><b>브라반티아 행온 빨래건조대 15m (메탈릭그레이)</b><br>11번가 (롯데백화점) · 103,470원<div class="note">펼침 108×59, 접으면 두께 5cm — 책상 밑에 세워 보관</div><a class="go" href="https://www.11st.co.kr/products/9701896136" target="_blank" rel="noopener">상품 보기 ↗</a></div><div class="it"><span class="tier budget">가성비</span><b>한샘 올데이 미니 건조대 (화이트)</b><br>11번가 · 29,900원<div class="note">펼침 136×52, 접으면 두께 7cm</div><a class="go" href="https://www.11st.co.kr/products/5580385185" target="_blank" rel="noopener">상품 보기 ↗</a></div><div class="sub">보조 건조대</div><div class="it"><span class="tier budget">가성비</span><b>IKEA JÄLL 옐 실내외건조대 (화이트)</b><br>이케아 · 10,000원<div class="note">수건·속옷용 작은 보조</div><a class="go" href="https://www.ikea.com/kr/ko/p/jaell-drying-rack-in-outdoor-white-00242891/" target="_blank" rel="noopener">상품 보기 ↗</a></div></section><section><h2>무선 서큘레이터 (빨래용)</h2><div class="sub">서큘레이터</div><div class="it"><span class="tier best">가장 비슷</span><b>루메나 무선 써큘레이터 FAN PRIME 3 (퓨어화이트)</b><br>루메나 공식몰 · 59,900원<div class="note">20×16×35, 무선 — 건조대 끝에서 제습기 쪽으로 바람</div><a class="go" href="https://www.lumena.co.kr/product/detail.html?product_no=355" target="_blank" rel="noopener">상품 보기 ↗</a></div></section></main></body></html>

diff --git a/gallery.html b/gallery.html
@@ -10,7 +10,7 @@
 <figure><figcaption>주방 · 인덕션 아래 드럼세탁기</figcaption><img src="images/8_kitchen.jpg"></figure>
 <figure><figcaption>침실 · 저상 매트리스 침대 (3cm 깔판 + 흰 커버 + 루프 러그)</figcaption><img src="images/6_bed.jpg"></figure>
 <figure><figcaption>빨래 모드 · 침실 창가 건조대 + 구석 제습기 + 서큘레이터 (문 닫고 말리기)</figcaption><img src="images/11_laundry.jpg"></figure>
-<figure><figcaption>거실 · 밤 조명</figcaption><img src="images/7_night.jpg"></figure>
-<figure><figcaption>좌식 세트(러그·좌탁·방석) 뺀 거실</figcaption><img src="images/9_empty_living.jpg"></figure>
-<figure><figcaption>좌식 세트 뺀 전체</figcaption><img src="images/10_empty_all.jpg"></figure>
+<figure><figcaption>거실 · 밤 조명 (롱암 벽등 · 무선 유리 램프 · 티크 사이드보드)</figcaption><img src="images/7_night.jpg"></figure>
+<figure><figcaption>좌탁·방석 뺀 거실 (러그는 그대로)</figcaption><img src="images/9_empty_living.jpg"></figure>
+<figure><figcaption>좌탁·방석 뺀 전체</figcaption><img src="images/10_empty_all.jpg"></figure>
 </body></html>
